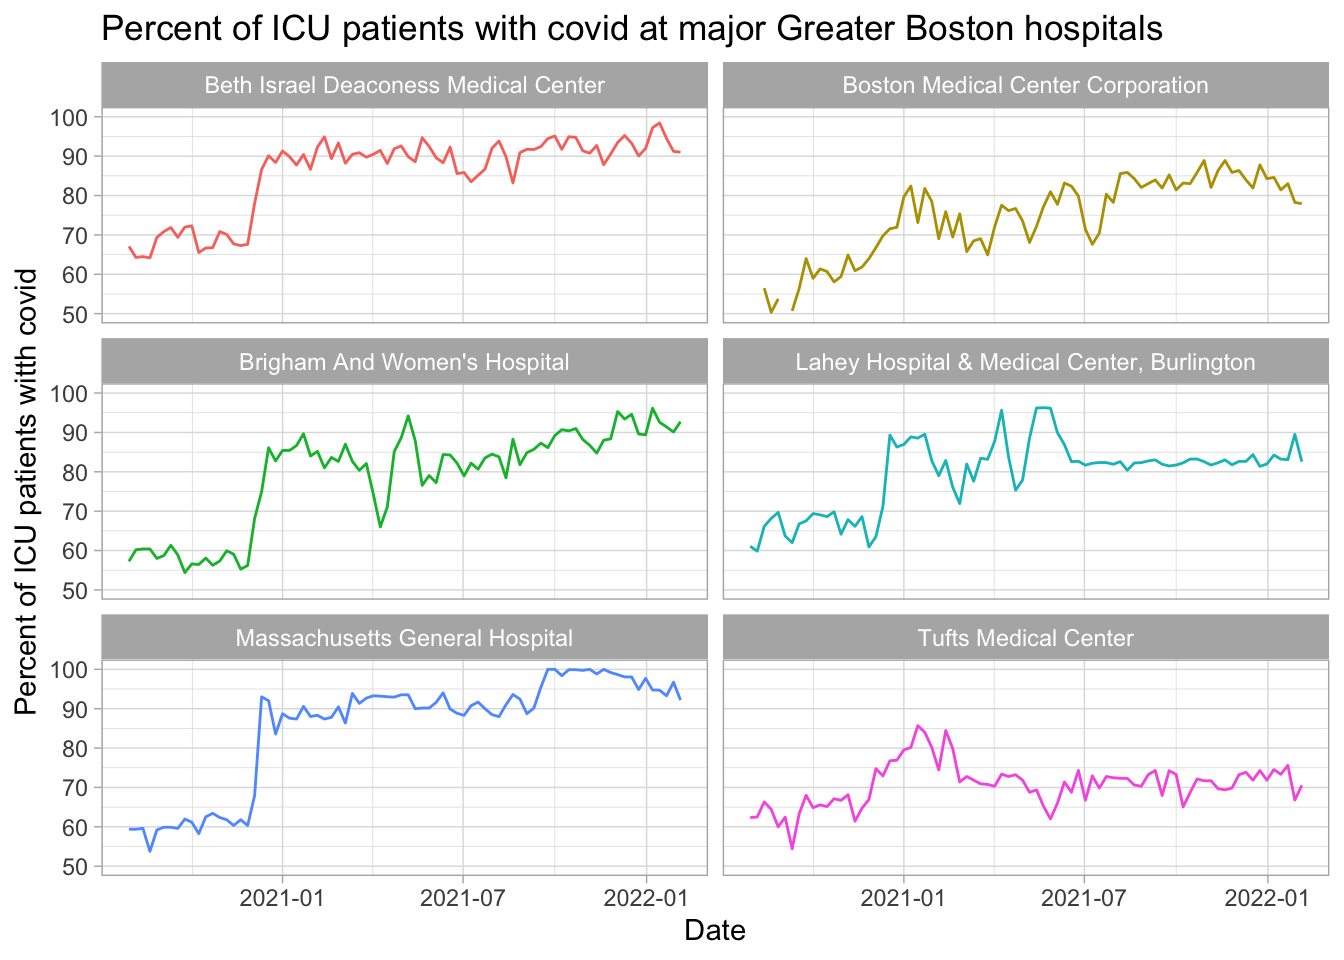
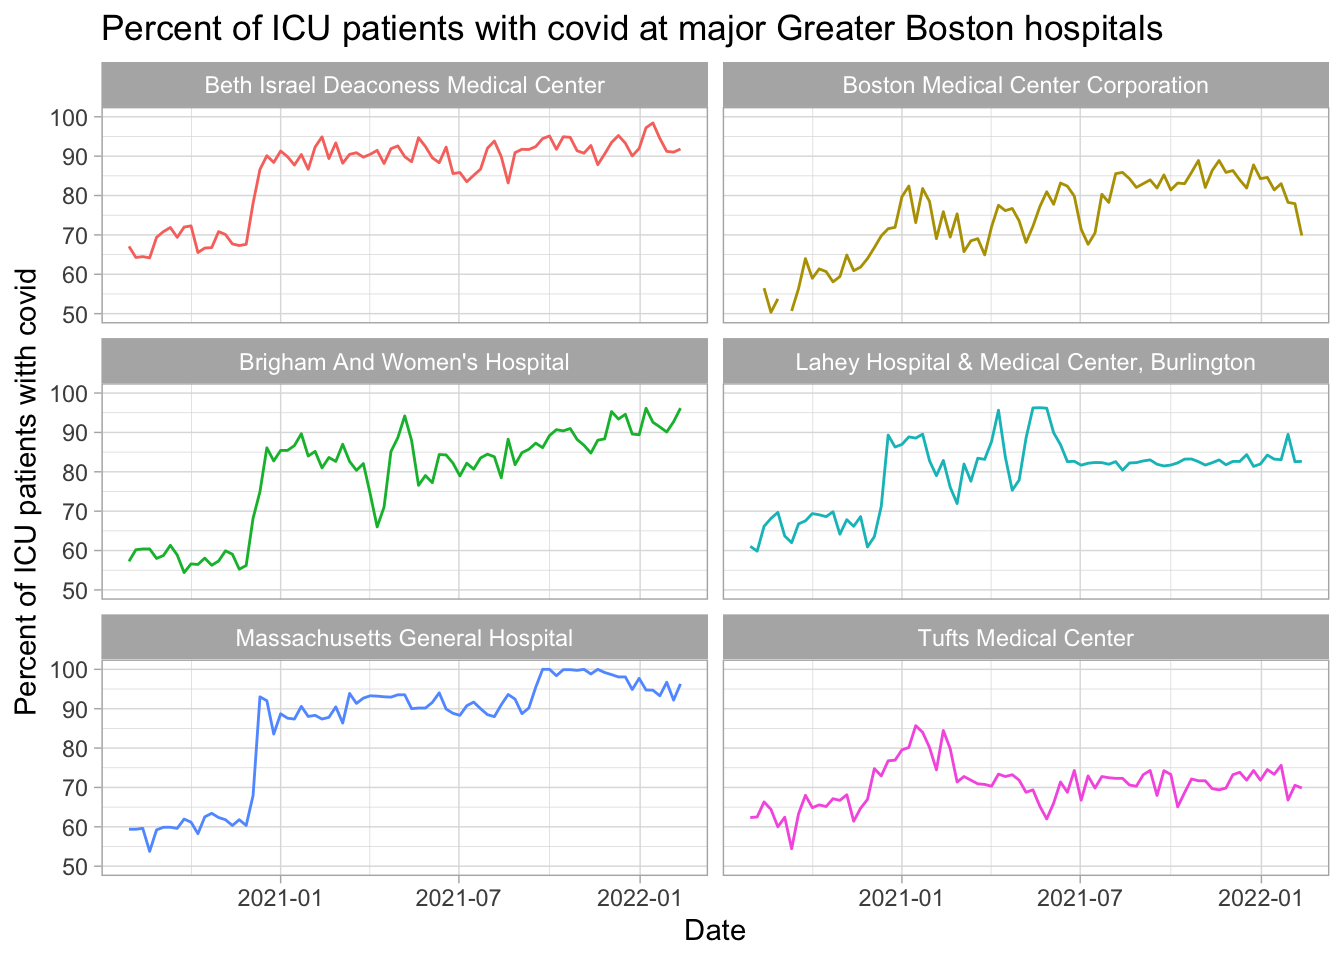
updated data

diff --git a/docs/index.html b/docs/index.html
@@ -290,7 +290,7 @@ $(document).ready(function () {
 <p><img src="index_files/figure-html/unnamed-chunk-3-1.png" width="672" /></p>
 <div id="hospital-data" class="section level3">
 <h3>Hospital data</h3>
-<p>The US Department of Health and Human Services gives data on hospital usage. Here are data of ICU bed availability for hospitals in this area with at least 25 staffed ICU beds, using data from the week starting 2022-02-04.</p>
+<p>The US Department of Health and Human Services gives data on hospital usage. Here are data of ICU bed availability for hospitals in this area with at least 25 staffed ICU beds, using data from the week starting 2022-02-11.</p>
 <table>
 <thead>
 <tr class="header">
@@ -303,45 +303,45 @@ $(document).ready(function () {
 <tbody>
 <tr class="odd">
 <td align="left">Beth Israel Deaconess Medical Center</td>
-<td align="right">21</td>
-<td align="right">131</td>
-<td align="right">84</td>
+<td align="right">22</td>
+<td align="right">128</td>
+<td align="right">83</td>
 </tr>
 <tr class="even">
 <td align="left">Boston Children’s Hospital</td>
-<td align="right">11</td>
+<td align="right">7</td>
 <td align="right">107</td>
-<td align="right">89</td>
+<td align="right">94</td>
 </tr>
 <tr class="odd">
 <td align="left">Boston Medical Center Corporation</td>
-<td align="right">17</td>
-<td align="right">98</td>
-<td align="right">82</td>
+<td align="right">21</td>
+<td align="right">97</td>
+<td align="right">78</td>
 </tr>
 <tr class="even">
 <td align="left">Brigham And Women’s Hospital</td>
-<td align="right">7</td>
-<td align="right">155</td>
-<td align="right">95</td>
+<td align="right">4</td>
+<td align="right">158</td>
+<td align="right">98</td>
 </tr>
 <tr class="odd">
 <td align="left">Lahey Hospital &amp; Medical Center, Burlington</td>
 <td align="right">10</td>
-<td align="right">57</td>
+<td align="right">58</td>
 <td align="right">83</td>
 </tr>
 <tr class="even">
 <td align="left">Massachusetts General Hospital</td>
-<td align="right">13</td>
+<td align="right">9</td>
 <td align="right">148</td>
-<td align="right">91</td>
+<td align="right">94</td>
 </tr>
 <tr class="odd">
 <td align="left">Tufts Medical Center</td>
-<td align="right">57</td>
+<td align="right">44</td>
 <td align="right">129</td>
-<td align="right">56</td>
+<td align="right">66</td>
 </tr>
 </tbody>
 </table>
@@ -351,7 +351,7 @@ $(document).ready(function () {
 <p><img src="index_files/figure-html/unnamed-chunk-6-1.png" width="672" /></p>
 <p>And those intubated:</p>
 <p><img src="index_files/figure-html/unnamed-chunk-7-1.png" width="672" /></p>
-<p>Plotting percentage of ICU patients with covid over time (up to the week starting 2022-02-04). Some hospitals have much more frequently updated data than others; some is fairly gappy. This just plots the hospitals that average at least 25 staffed <em>adult</em> ICU beds per week.</p>
+<p>Plotting percentage of ICU patients with covid over time (up to the week starting 2022-02-11). Some hospitals have much more frequently updated data than others; some is fairly gappy. This just plots the hospitals that average at least 25 staffed <em>adult</em> ICU beds per week.</p>
 <p><img src="index_files/figure-html/unnamed-chunk-8-1.png" width="672" /></p>
 </div>
 

diff --git a/docs/individualhospitals.html b/docs/individualhospitals.html
@@ -294,45 +294,45 @@ $(document).ready(function () {
 <tbody>
 <tr class="odd">
 <td align="left">Beth Israel Deaconess Medical Center</td>
-<td align="right">21</td>
-<td align="right">131</td>
-<td align="right">84</td>
+<td align="right">22</td>
+<td align="right">128</td>
+<td align="right">83</td>
 </tr>
 <tr class="even">
 <td align="left">Boston Children’s Hospital</td>
-<td align="right">11</td>
+<td align="right">7</td>
 <td align="right">107</td>
-<td align="right">89</td>
+<td align="right">94</td>
 </tr>
 <tr class="odd">
 <td align="left">Boston Medical Center Corporation</td>
-<td align="right">17</td>
-<td align="right">98</td>
-<td align="right">82</td>
+<td align="right">21</td>
+<td align="right">97</td>
+<td align="right">78</td>
 </tr>
 <tr class="even">
 <td align="left">Brigham And Women’s Hospital</td>
-<td align="right">7</td>
-<td align="right">155</td>
-<td align="right">95</td>
+<td align="right">4</td>
+<td align="right">158</td>
+<td align="right">98</td>
 </tr>
 <tr class="odd">
 <td align="left">Lahey Hospital &amp; Medical Center, Burlington</td>
 <td align="right">10</td>
-<td align="right">57</td>
+<td align="right">58</td>
 <td align="right">83</td>
 </tr>
 <tr class="even">
 <td align="left">Massachusetts General Hospital</td>
-<td align="right">13</td>
+<td align="right">9</td>
 <td align="right">148</td>
-<td align="right">91</td>
+<td align="right">94</td>
 </tr>
 <tr class="odd">
 <td align="left">Tufts Medical Center</td>
-<td align="right">57</td>
+<td align="right">44</td>
 <td align="right">129</td>
-<td align="right">56</td>
+<td align="right">66</td>
 </tr>
 </tbody>
 </table>
